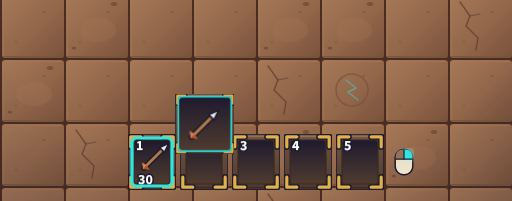
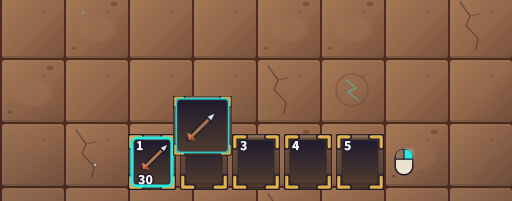
051 review: 051/07b polls the swap's progress (ui().hud.carriedHint.progress) instead of a fixed wait; retaken
Claude-Session: https://claude.ai/code/session_019ig8gw5L4yavYF6tvwkS5C

Changed region(s): [[0.3125, 0.4478, 0.4688, 0.7761]]

diff --git a/src/render/CarriedHintView.ts b/src/render/CarriedHintView.ts
@@ -17,8 +17,9 @@ export interface CarriedHintShown {
   input: 'mouse' | 'key';
   label: string;
   box: ScreenBox;
-  /** The slot swap: playing now, and how many times it has played. */
+  /** The slot swap: playing now, how far through its shrink (0..1, on the tween clock), and how many times it has played. */
   swapping: boolean;
+  progress: number;
   swaps: number;
 }
 
@@ -31,7 +32,7 @@ export class CarriedHintView {
   private readonly mouse: GameObjects.Image;
   private readonly keyPanel: GameObjects.Graphics;
   private readonly key: TextLine;
-  private state: CarriedHintShown = { shown: false, input: 'mouse', label: '', box: { x: 0, y: 0, w: 0, h: 0 }, swapping: false, swaps: 0 };
+  private state: CarriedHintShown = { shown: false, input: 'mouse', label: '', box: { x: 0, y: 0, w: 0, h: 0 }, swapping: false, progress: 0, swaps: 0 };
 
   constructor(scene: Scene) {
     this.scene = scene;
@@ -90,7 +91,7 @@ export class CarriedHintView {
     const scales = parts.map((p) => p.scaleX * (p === frame ? 1 : HUD_LAYOUT.activeScale));
     for (const [i, p] of parts.entries()) p.setScale(scales[i] ?? 1);
     const to = { x: cell.x + cell.w / 2, y: cell.y + cell.h / 2 };
-    this.state = { ...this.state, swapping: true, swaps: this.state.swaps + 1 };
+    this.state = { ...this.state, swapping: true, progress: 0, swaps: this.state.swaps + 1 };
     grow(0);
     this.scene.tweens.addCounter({
       from: 0,
@@ -99,6 +100,7 @@ export class CarriedHintView {
       ease: 'Quad.InOut',
       onUpdate: (t) => {
         const k = t.getValue() ?? 1;
+        this.state = { ...this.state, progress: t.progress };
         const fade = Math.min(1, Math.max(0, (S.shrinkMs - k * S.shrinkMs) / S.fadeMs));
         for (const [i, p] of parts.entries()) {
           p.setPosition(from.x + from.w / 2 + (to.x - from.x - from.w / 2) * k, from.y + from.h / 2 + (to.y - from.y - from.h / 2) * k);
@@ -107,7 +109,7 @@ export class CarriedHintView {
       },
       onComplete: () => {
         for (const p of parts) p.destroy();
-        this.state = { ...this.state, swapping: false };
+        this.state = { ...this.state, swapping: false, progress: 1 };
       },
     });
     this.scene.tweens.addCounter({ from: 0, to: 1, delay: S.growDelayMs, duration: S.growMs, onUpdate: (t) => grow(t.getValue() ?? 1), onComplete: () => grow(1) });

diff --git a/tests/e2e/guidanceShots.spec.ts b/tests/e2e/guidanceShots.spec.ts
@@ -165,7 +165,6 @@ test.describe('review screenshots (051)', () => {
     await expect.poll(async () => (await ui(page))?.hud?.carriedHint.shown).toBe(true);
     const canvas = await page.locator('canvas').boundingBox();
     if (!canvas) throw new Error('no canvas');
-    const k = canvas.width / VIEW_WIDTH;
     const bottom = { x: canvas.x + canvas.width * 0.3, y: canvas.y + canvas.height * 0.72, width: canvas.width * 0.4, height: canvas.height * 0.28 };
     await page.screenshot({ path: `${SHOTS}/07a-mouse-icon.png`, clip: bottom });
     const pulse = await page.evaluate(() => {
@@ -179,10 +178,10 @@ test.describe('review screenshots (051)', () => {
     await page.evaluate(() => window.__GAME__?.tweenSpeed(0.05));
     await page.evaluate((t) => window.__GAME__?.step(t), pulse);
     await expect.poll(async () => (await ui(page))?.hud?.carriedHint.swapping).toBe(true);
-    await page.waitForTimeout(7000);
+    // Half way through the shrink (the tweens slowed to a twentieth), then held still for the shot.
+    await expect.poll(async () => (await ui(page))?.hud?.carriedHint.progress ?? 0, { timeout: 30_000, intervals: [50] }).toBeGreaterThanOrEqual(0.5);
     await page.evaluate(() => window.__GAME__?.tweenSpeed(0));
     await page.screenshot({ path: `${SHOTS}/07b-slot-swap.png`, clip: bottom });
     await page.evaluate(() => window.__GAME__?.tweenSpeed(1));
-    expect(k).toBeGreaterThan(0);
   });
 });
